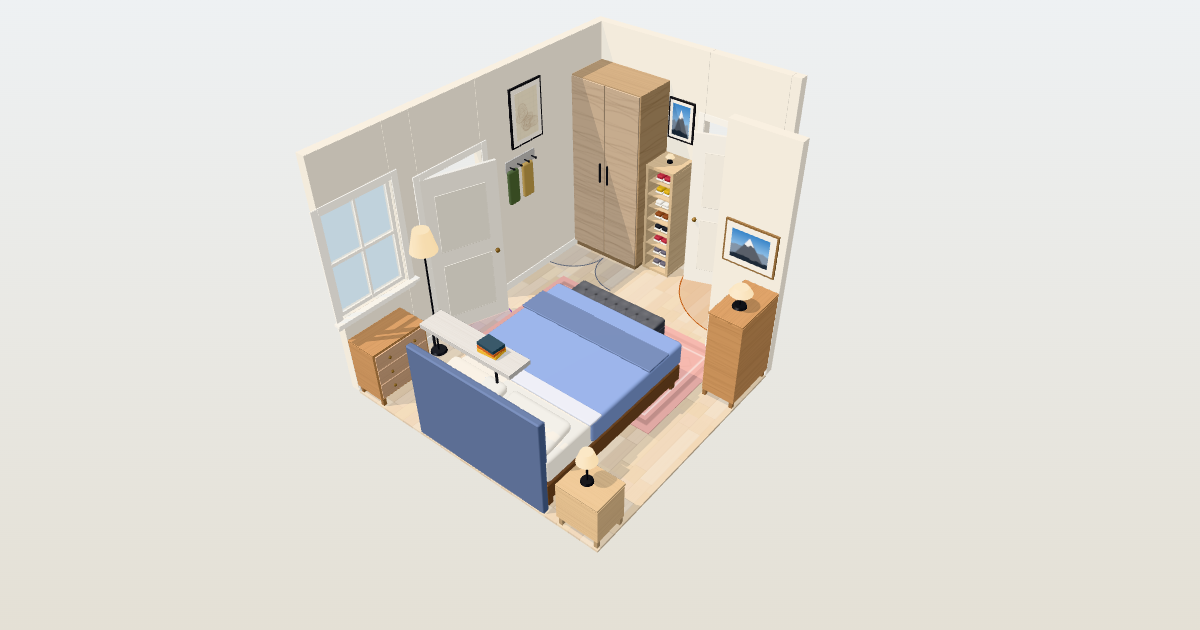
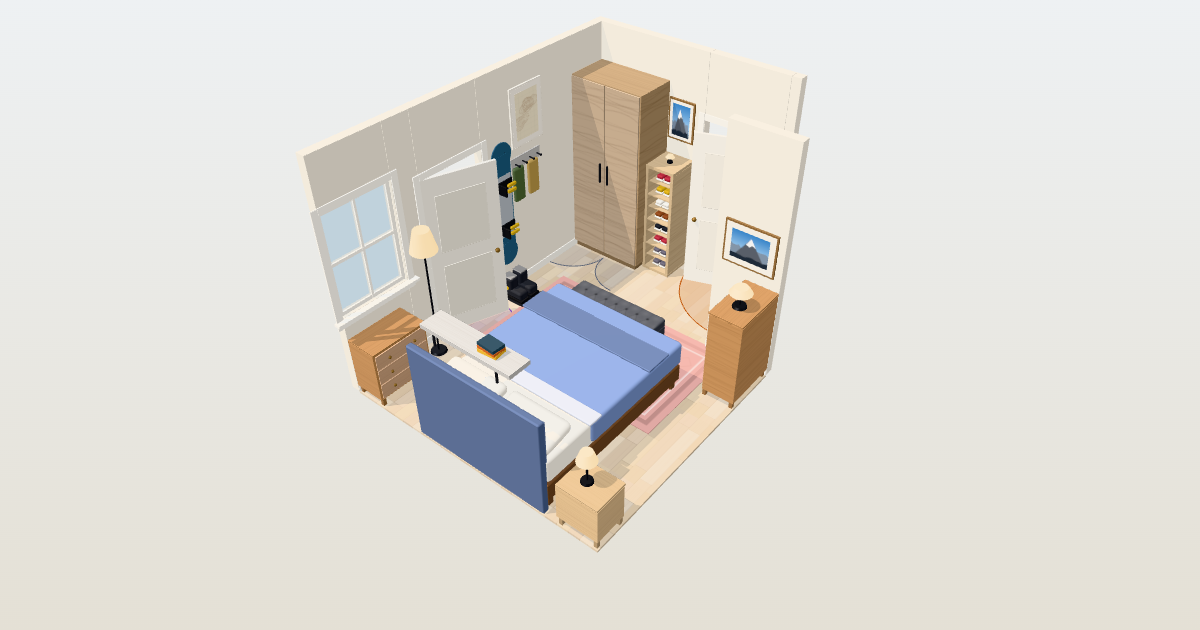
feat(gear): snowboard and boots in every layout, plus ladder shelf and bean bag
Every ready-made layout hangs the snowboard upright on a wall rack with
its bindings on and the boots on a tray beneath it. The corner layout's
floor lamp moves just north of the bed's foot corner to make room, and
the centred layout's hook rail moves 3 in north so the board clears the
closet door's trim. The furniture list also gains a leaning ladder shelf
and a bean bag; both views draw all four pieces. Previews retaken.

Changed region(s): [[0.4008, 0.2111, 0.4625, 0.4825], [0.555, 0.1508, 0.5858, 0.2413], [0.4317, 0.1206, 0.4625, 0.1508]]

diff --git a/site/core.js b/site/core.js
@@ -26,15 +26,17 @@ const PRESETS = [
   ["Armchair", 32, 34, 32, 0, "#7fae8f", true, "chair"], ["Rug", 96, 60, 0.5, 0, "#d9a5a0", false, "rug"],
   ["Wall shelf", 36, 8, 2, 60, "#a8a29e", true, "other"], ["Mirror", 24, 1, 60, 12, "#9fc5d8", true, "mirror"],
   ["Floor lamp", 12, 12, 64, 0, "#e3c66b", true, "lamp"], ["Table lamp", 10, 10, 18, 0, "#e3c66b", true, "lamp"], ["Plug-in sconce", 6, 4, 12, 46, "#e3c66b", true, "sconce"],
+  ["Ladder shelf", 24, 16, 72, 0, "#b08a62", true, "ladder"], ["Bean bag", 36, 34, 26, 0, "#8a6f5a", true, "beanbag"],
+  ["Snowboard wall rack", 12, 8, 63, 16, "#2f5d7c", true, "board"], ["Snowboard boots on a tray", 14, 15, 12, 0, "#2b2d33", true, "boots"],
   ["Framed art", 24, 1, 30, 50, "#efe4cc", true, "art"], ["Wall hanging", 30, 1, 45, 40, "#3f5f9e", true, "textile"], ["Peg rail with gear", 36, 2, 20, 50, "#c9b592", true, "pegs"],
   ["Custom box", 24, 24, 24, 0, "#bdbdbd", true, "other"]
 ];
 const KINDS = { bed: "Bed", bench: "Bench", ottoman: "Upholstered storage bench", dresser: "Dresser / drawers", wardrobe: "Wardrobe", rack: "Clothes rack", shoe: "Shoe storage",
-  nightstand: "Nightstand", shelf: "Shelving", chair: "Chair", rug: "Rug", mirror: "Mirror",
+  nightstand: "Nightstand", shelf: "Shelving", ladder: "Ladder shelf", beanbag: "Bean bag", board: "Snowboard on a wall rack", boots: "Snowboard boots", chair: "Chair", rug: "Rug", mirror: "Mirror",
   art: "Framed art", textile: "Wall hanging", pegs: "Peg rail with gear", lamp: "Lamp", sconce: "Wall sconce", plant: "Plant", other: "Plain box" };
 // Starting points that ship with the page.
 const KIND_COLOR = { bed: "#7c93c4", bench: "#a9825a", ottoman: "#4a4d55", dresser: "#b98b5e", wardrobe: "#a98f6f", rack: "#9aa3ad", shoe: "#c7b08e",
-  nightstand: "#d1b48c", shelf: "#9c7b55", chair: "#7fae8f", rug: "#d9a5a0", mirror: "#9fc5d8", lamp: "#e3c66b", sconce: "#e3c66b", plant: "#7fae8f",
+  nightstand: "#d1b48c", shelf: "#9c7b55", ladder: "#b08a62", beanbag: "#8a6f5a", board: "#2f5d7c", boots: "#2b2d33", chair: "#7fae8f", rug: "#d9a5a0", mirror: "#9fc5d8", lamp: "#e3c66b", sconce: "#e3c66b", plant: "#7fae8f",
   art: "#efe4cc", textile: "#3f5f9e", pegs: "#c9b592", other: "#bdbdbd" };
 // [name, kind, x, y, width, depth, height, off floor, headboard side]
 const pc = ([name, kind, x, y, w, d, h, z = 0, headSide = ""], i) => ({ id: kind + i, name, kind, x, y, w, d, h, z, color: KIND_COLOR[kind],
@@ -42,30 +44,30 @@ const pc = ([name, kind, x, y, w, d, h, z = 0, headSide = ""], i) => ({ id: kind
 const layout = (id, name, note, why, rows) => ({ id, name, note, why, items: rows.map(pc) });
 const BUILTIN = [
   layout("b3", "Bed facing the window", "wake to light",
-    "Bed turned with its head on the east wall and its foot toward the window, so the middle of the room is one open floor. A tall PAX wardrobe fills the north-west corner facing south, with a KALLAX shoe tower beside it and clear of the door swing. Its doors open onto clear floor: the MALM tall chest starts on the west wall just past them, and the open RIGGA rack runs along the in-push facing south, 30 in from the bed. A small nightstand stands at the head of the bed's open side; it leaves 14 in in front of the rack's east end. The bench sits across the foot of the bed. No ceiling light: a floor lamp stands in the window corner, a plug-in swing-arm sconce over the bed's head corner, just above the headboard, is the reading light, and your BÖJA, Mika and PELARBOJ lamps sit on the chest, the nightstand and the KALLAX. Tightest walkway is 27 in, between the bench and the window wall; the lamp sits at its dead end. The open rack is visible clutter.", [
+    "Bed turned with its head on the east wall and its foot toward the window, so the middle of the room is one open floor. A tall PAX wardrobe fills the north-west corner facing south, with a KALLAX shoe tower beside it and clear of the door swing. Its doors open onto clear floor: the MALM tall chest starts on the west wall just past them, and the open RIGGA rack runs along the in-push facing south, 30 in from the bed. A small nightstand stands at the head of the bed's open side; it leaves 14 in in front of the rack's east end. The bench sits across the foot of the bed. The snowboard hangs upright on the south wall at the window end of the bench, with its boots on a tray under it, so it sits in the dead end beside the floor lamp. No ceiling light: a floor lamp stands in the window corner, a plug-in swing-arm sconce over the bed's head corner, just above the headboard, is the reading light, and your BÖJA, Mika and PELARBOJ lamps sit on the chest, the nightstand and the KALLAX. Tightest walkway is 27 in, between the bench and the window wall; the lamp sits at its dead end. The open rack is visible clutter.", [
     ["Bed", "bed", 43, 98, 86, 66, 24, 0, "E"], [BENCH, "ottoman", 27, 117, 16, 46, 18],
     ["PAX wardrobe 39 3/8, tall", "wardrobe", 0, 0, 39.375, 22.875, 93.125], ["KALLAX 1x4 shoe tower", "shoe", 39.375, 0, 15.375, 16.5, 57.875],
     ["MALM 6-drawer tall chest", "dresser", 0, 44, 18.875, 31.5, 48.375],
     ["RIGGA clothes rack", "rack", 85.25, 48, 43.75, 20.125, 68.875], ["Small nightstand, 1 drawer", "nightstand", 117, 82, 12, 16, 24], ["Jute rug 5'3 x 7'7", "rug", 36, 48, 90.5, 63, 0.5],
-    ["Floor lamp", "lamp", 1, 151, 12, 12, 64], ["Plug-in swing-arm sconce", "sconce", 125, 99, 4, 6, 12, 46], ["Mika cactus lamp (yours)", "lamp", 119, 86, 8, 8, 15, 24],
+    ["Floor lamp", "lamp", 1, 151, 12, 12, 64], ["Snowboard wall rack", "board", 14, 156, 12, 8, 63, 16], ["Snowboard boots on a tray", "boots", 13, 149, 14, 15, 12], ["Plug-in swing-arm sconce", "sconce", 125, 99, 4, 6, 12, 46], ["Mika cactus lamp (yours)", "lamp", 119, 86, 8, 8, 15, 24],
     ["BÖJA table lamp (yours)", "lamp", 4.5, 55, 9.75, 9.75, 9.5, 48.375], ["PELARBOJ glow lamp (yours)", "lamp", 44.75, 6, 4.5, 4.5, 4, 57.875],
     ["Yosemite panorama", "art", 128, 107, 1, 48, 30, 54], ["Park print", "art", 55, 163, 18, 1, 24, 50], ["Park print", "art", 77, 163, 18, 1, 24, 50], ["Park print", "art", 99, 163, 18, 1, 24, 50], ["Adire wall hanging", "textile", 128, 68.25, 1, 29.5, 40, 54], ["Framed topo map", "art", 0, 47.75, 1, 24, 24, 56], ["Summit photos", "art", 100, 48, 24, 1, 20, 72]]),
   layout("a1", "Corner bed, maximum storage", "most storage",
-    "Bed in the south-east corner. A tall PAX wardrobe in the north-west corner takes hanging clothes with the KALLAX shoe tower beside it, and a 63 in MALM dresser sits under the window and doubles as the nightstand. Bench stays at the foot. No ceiling light: a floor lamp stands in the corner north of the bed, a plug-in swing-arm sconce on the south wall, just above the headboard's open corner, is the reading light, and your BÖJA and Mika lamps sit on the dresser with the PELARBOJ on the KALLAX. Main walkway is 51 in; the tightest spot is 24 in in front of the wardrobe doors. The bed is reachable from one side only and the north-west corner is furniture-heavy.", [
+    "Bed in the south-east corner. A tall PAX wardrobe in the north-west corner takes hanging clothes with the KALLAX shoe tower beside it, and a 63 in MALM dresser sits under the window and doubles as the nightstand. Bench stays at the foot. The snowboard hangs upright on the east wall in the corner by the in-push, its boots on a tray under it. No ceiling light: a floor lamp stands just north of the bed's foot corner, a plug-in swing-arm sconce on the south wall, just above the headboard's open corner, is the reading light, and your BÖJA and Mika lamps sit on the dresser with the PELARBOJ on the KALLAX. Main walkway is 51 in; the tightest spot is 24 in in front of the wardrobe doors. The bed is reachable from one side only and the north-west corner is furniture-heavy.", [
     ["Bed", "bed", 63, 78, 66, 86, 24, 0, "S"], [BENCH, "ottoman", 64, 62, 46, 16, 18],
     ["PAX wardrobe 39 3/8, tall", "wardrobe", 0, 0, 39.375, 22.875, 93.125], ["MALM 6-drawer dresser", "dresser", 0, 145.125, 63, 18.875, 30.75],
     ["KALLAX 1x4 shoe tower", "shoe", 39.375, 0, 15.375, 16.5, 57.875], ["Hook rail", "other", 104, 48, 18.875, 3.5, 5.5, 62],
     ["Runner rug 30 x 84", "rug", 28, 55, 30, 84, 0.5],
-    ["Floor lamp", "lamp", 116, 53, 12, 12, 64], ["Plug-in swing-arm sconce", "sconce", 63, 160, 6, 4, 12, 46], ["BÖJA table lamp (yours)", "lamp", 51, 150, 9.75, 9.75, 9.5, 30.75],
+    ["Floor lamp", "lamp", 117, 65, 12, 12, 64], ["Snowboard wall rack", "board", 121, 52, 8, 12, 63, 16], ["Snowboard boots on a tray", "boots", 115, 51, 14, 14, 12], ["Plug-in swing-arm sconce", "sconce", 63, 160, 6, 4, 12, 46], ["BÖJA table lamp (yours)", "lamp", 51, 150, 9.75, 9.75, 9.5, 30.75],
     ["Mika cactus lamp (yours)", "lamp", 4, 150, 8, 8, 15, 30.75], ["PELARBOJ glow lamp (yours)", "lamp", 44.75, 6, 4.5, 4.5, 4, 57.875],
     ["Yosemite panorama", "art", 72, 163, 48, 1, 32, 54], ["Trip photo grid", "art", 8, 163, 48, 1, 28, 38], ["Adire wall hanging", "textile", 128, 90, 1, 30, 40, 48], ["Framed topo map", "art", 0, 53, 1, 24, 28, 44], ["Summit photo", "art", 40, 0, 14, 1, 20, 66]]),
   layout("a3", "Centred bed, both sides open", "two-sided bed",
-    "Bed stays almost where it is, so you can get in from either side: 38 in on the west (22 in beside the low chest under the window), 25 in on the east. Tall PAX in the north-west corner with the KALLAX shoe tower beside it, a narrow KULLEN 5-drawer chest south of the in-push, a low KULLEN 3-drawer chest under the window, a nightstand and a shelf over the headboard. No ceiling light: a pair of plug-in swing-arm sconces sit just above the headboard's two corners, a floor lamp stands on the west wall between the closet door and the window, and your BÖJA, Mika and PELARBOJ lamps sit on the tall chest, the nightstand and the KALLAX. Bench keeps its place at the foot. Tightest walkway is 22 in.", [
+    "Bed stays almost where it is, so you can get in from either side: 38 in on the west (22 in beside the low chest under the window), 25 in on the east. Tall PAX in the north-west corner with the KALLAX shoe tower beside it, a narrow KULLEN 5-drawer chest south of the in-push, a low KULLEN 3-drawer chest under the window, a nightstand and a shelf over the headboard. The snowboard hangs upright on the west wall just north of the closet door, its boots on a tray under it. No ceiling light: a pair of plug-in swing-arm sconces sit just above the headboard's two corners, a floor lamp stands on the west wall between the closet door and the window, and your BÖJA, Mika and PELARBOJ lamps sit on the tall chest, the nightstand and the KALLAX. Bench keeps its place at the foot. Tightest walkway is 22 in.", [
     ["Bed", "bed", 38, 78, 66, 86, 24, 0, "S"], [BENCH, "ottoman", 39, 62, 46, 16, 18],
     ["PAX wardrobe 39 3/8, tall", "wardrobe", 0, 0, 39.375, 22.875, 93.125], ["KALLAX 1x4 shoe tower", "shoe", 39.375, 0, 15.375, 16.5, 57.875],
     ["KULLEN 5-drawer chest", "dresser", 113.25, 48, 15.75, 27.5, 44.125], ["KULLEN 3-drawer chest", "dresser", 0, 136.5, 15.75, 27.5, 28.375], ["MALM 2-drawer nightstand", "nightstand", 110.125, 148.25, 18.875, 15.75, 21.625],
-    ["Wall shelf over bed", "other", 49, 153.75, 43.25, 10.25, 2, 60], ["Hook rail", "other", 0, 50, 3.5, 18.875, 5.5, 62],
-    ["Rug 60 x 96", "rug", 14, 48, 96, 60, 0.5],
+    ["Wall shelf over bed", "other", 49, 153.75, 43.25, 10.25, 2, 60], ["Hook rail", "other", 0, 46.5, 3.5, 18.875, 5.5, 62],
+    ["Rug 60 x 96", "rug", 14, 48, 96, 60, 0.5], ["Snowboard wall rack", "board", 0, 66, 8, 12, 63, 16], ["Snowboard boots on a tray", "boots", 0, 65, 15, 14, 12],
     ["Floor lamp", "lamp", 1, 119, 12, 12, 64], ["Plug-in swing-arm sconce", "sconce", 38, 160, 6, 4, 12, 46], ["Plug-in swing-arm sconce", "sconce", 98, 160, 6, 4, 12, 46],
     ["BÖJA table lamp (yours)", "lamp", 116, 60, 9.75, 9.75, 9.5, 44.125], ["Mika cactus lamp (yours)", "lamp", 114, 152, 8, 8, 15, 21.625], ["PELARBOJ glow lamp (yours)", "lamp", 44.75, 6, 4.5, 4.5, 4, 57.875],
     ["Park print", "art", 52, 163, 18, 1, 22, 63], ["Park print", "art", 73, 163, 18, 1, 22, 63], ["Adire wall hanging", "textile", 128, 85, 1, 30, 45, 40], ["Framed topo map", "art", 0, 44, 1, 20, 28, 72], ["Summit photos", "art", 102, 48, 24, 1, 20, 50], ["Summit photo", "art", 40, 0, 14, 1, 20, 66]])
@@ -376,7 +378,7 @@ function tier(gap) { return gap <= state.room.flush ? "flush" : gap <= state.roo
 function kindOf(it) {
   if (it.kind) return it.kind;
   const nm = it.name.toLowerCase();
-  const table = [["nightstand", /night|bedside/], ["bed", /\bbed\b/], ["ottoman", /ottoman|storage bench|upholstered/], ["bench", /bench/], ["shoe", /shoe/], ["wardrobe", /wardrobe|armoire|pax/],
+  const table = [["board", /snowboard(?! boot)/], ["boots", /boot/], ["ladder", /ladder/], ["beanbag", /bean ?bag/], ["nightstand", /night|bedside/], ["bed", /\bbed\b/], ["ottoman", /ottoman|storage bench|upholstered/], ["bench", /bench/], ["shoe", /shoe/], ["wardrobe", /wardrobe|armoire|pax/],
     ["rack", /rack|rail/], ["dresser", /dresser|drawer|chest/], ["shelf", /shel|book/], ["chair", /chair|sofa/], ["rug", /rug|carpet/],
     ["mirror", /mirror/], ["sconce", /sconce/], ["lamp", /lamp/], ["plant", /plant/],
     ["textile", /hanging|tapestry|textile/], ["pegs", /peg/], ["art", /art|print|photo|poster|map|frame|panorama/]];

diff --git a/site/index.html b/site/index.html
@@ -580,6 +580,67 @@ const MODELS = {
       x += bw + 0.08;
     }
   },
+  // Leans on the wall: two rails from the floor out front to the wall up top, shelves narrowing as they rise.
+  ladder(g, { a, dp, h, c, r }) {
+    const m = wood(c), run = dp - 2, tilt = Math.atan2(run, h), back = -dp / 2 + 0.6, frontAt = y => dp / 2 - 1 - run * (y / h);
+    for (const sx of [-1, 1]) {
+      const len = Math.hypot(h, run), rail = bxm(g, 1.4, len, 1.6, 0, 0, 0, m);
+      rail.geometry.translate(0, len / 2, 0); // pivot at the rail's foot
+      rail.position.set(sx * (a / 2 - 0.7), 0, dp / 2 - 1.8);
+      rail.rotation.x = -tilt;
+    }
+    const shelves = Math.max(2, Math.round(h / 15));
+    for (let i = 0; i < shelves; i++) {
+      const y = 6 + i * (h - 10) / (shelves - 0.5), sd = Math.max(frontAt(y) - back, 3);
+      bxm(g, a - 2.8, 0.8, sd, 0, y, back + sd / 2, m, 0.15);
+      if (r() < 0.5) cyl(g, 2.2, 1.7, 4, -a * 0.2, y + 2.8, back + sd / 2, M("#c9734b", 0.9), "y", 14);
+      for (let x = a * 0.02; x < a / 2 - 3 && sd > 5; x += 1.4) bxm(g, 1.2, 5 + r() * 3, Math.min(sd - 1, 6), x, y + 0.8, back + sd / 2, M(pick(r, BOOKS), 0.8));
+    }
+  },
+  // A squashed sack of beans with a higher lump at the back where you lean.
+  beanbag(g, { a, dp, h, c }) {
+    const lump = (sx, sy, sz, x, y, z, m) => {
+      const mesh = new THREE.Mesh(new THREE.SphereGeometry(1, 32, 20), m);
+      mesh.scale.set(sx, sy, sz); mesh.position.set(x, y, z); g.add(mesh);
+    };
+    lump(a / 2, h * 0.36, dp / 2, 0, h * 0.36, 0, M(c, 1));
+    lump(a * 0.42, h * 0.42, dp * 0.26, 0, h * 0.58, -dp * 0.2, M(c, 1));
+    lump(a * 0.3, h * 0.12, dp * 0.3, 0, h * 0.66, dp * 0.08, M(shade(c, -0.12), 1));
+  },
+  // Snowboard on a wall rack with its bindings on: upright when taller than wide, lying flat otherwise.
+  board(g, { a, dp, h, c }) {
+    const upright = h >= a, len = upright ? h : a, wid = Math.min(upright ? a : h, 12.5), waist = wid * 0.84, nose = wid / 2;
+    const b = new THREE.Group(), deck = M(c, 0.45), zb = -dp / 2 + 1.6;
+    for (const end of [-1, 1]) bxm(b, wid * 0.5, 1.6, 1.4, 0, end * (len / 2 - 5) - 0.8, -dp / 2 + 0.7, DARK_METAL, 0.2); // wall brackets
+    bxm(b, waist, len - 2 * nose, 0.45, 0, -len / 2 + nose, zb, deck, 0.1);
+    for (const end of [-1, 1]) cyl(b, nose, nose, 0.45, 0, end * (len / 2 - nose), zb, deck, "z", 28);
+    bxm(b, waist * 0.9, len * 0.5, 0.06, 0, -len * 0.25, zb + 0.26, M(shade(c, 0.45), 0.5)); // top-sheet stripe
+    bxm(b, waist, len - 2 * nose, 0.12, 0, -len / 2 + nose, zb - 0.28, M("#1b1c20", 0.35));
+    for (const s of [-1, 1]) { // bindings, 22 in apart
+      const y = s * 11, binding = M("#16171a", 0.6), strap = M("#c9a227", 0.7);
+      bxm(b, waist * 0.92, 4.6, 0.9, 0, y - 2.3, zb + 0.7, binding, 0.2);
+      bxm(b, 0.9, 5, 5.5, -waist / 2 + 1, y - 2.5, zb + 3.4, binding, 0.3);
+      for (const k of [-1.3, 1.6]) bxm(b, waist * 0.5, 1.5, 1.4, waist * 0.08, y + k - 0.75, zb + 4.4, strap, 0.4);
+    }
+    b.position.set(0, h / 2, 0);
+    if (!upright) b.rotation.z = Math.PI / 2;
+    g.add(b);
+  },
+  // A pair of snowboard boots, toes out, on a rubber boot tray.
+  boots(g, { a, dp, h, c }) {
+    const tray = M("#1d1f24", 0.9), shell = M(c, 0.7), liner = M(shade(c, 0.25), 0.9), dial = M("#c9a227", 0.5);
+    bxm(g, a, 0.6, dp, 0, 0, 0, tray, 0.2);
+    for (const side of [-1, 1]) bxm(g, a, 1.2, 0.5, 0, 0, side * (dp / 2 - 0.25), tray);
+    const bw = Math.min(a * 0.42, 5.5), len = Math.min(dp - 1.4, 13);
+    for (const sx of [-1, 1]) {
+      const x = sx * a * 0.24;
+      bxm(g, bw + 0.3, 1.4, len, x, 0.6, 0, M("#121316", 0.8), 0.4);
+      bxm(g, bw, Math.min(4.5, h * 0.38), len * 0.92, x, 1.8, 0.2, shell, 1.4);
+      bxm(g, bw * 0.96, h - 2.4, len * 0.48, x, 2.4, -len * 0.22, shell, 1.5);
+      bxm(g, bw * 0.8, 1, len * 0.42, x, h - 0.6, -len * 0.22, liner, 0.4);
+      cyl(g, 0.9, 0.9, 0.6, x + sx * (bw / 2 + 0.2), h * 0.55, -len * 0.18, dial, "x", 14);
+    }
+  },
   chair(g, { a, dp, h, c }) {
     const fabric = M(c, 1), legH = Math.min(4, h * 0.15), seat = Math.max(h * 0.32, legH + 4);
     for (const sx of [-1, 1]) for (const sz of [-1, 1]) cyl(g, 0.9, 0.6, legH, sx * (a / 2 - 3), legH / 2, sz * (dp / 2 - 3), wood("#5a3e2b"));

diff --git a/site/plan.html b/site/plan.html
@@ -122,6 +122,10 @@ function planDeco(it) {
     else if (k === "plant" || k === "lamp") g += `<circle class="deco-fill" cx="${x + w / 2}" cy="${y + d / 2}" r="${Math.min(w, d) / 2 - 1}"/>`;
     else if (k === "sconce") g += `<circle class="deco-fill" cx="${x + w / 2}" cy="${y + d / 2}" r="${Math.max(w, d) / 2}"/>`;
     else if (k === "dresser" || k === "nightstand" || k === "shoe" || k === "shelf") g += box(x + 1.2, y + 1.2, w - 2.4, d - 2.4);
+    else if (k === "ladder") for (let a = 2; a < (longX ? d : w) - 1; a += 3.5) g += longX ? seg(x + 1, y + a, x + w - 1, y + a) : seg(x + a, y + 1, x + a, y + d - 1);
+    else if (k === "beanbag") g += `<ellipse class="deco-fill" cx="${x + w / 2}" cy="${y + d / 2}" rx="${w / 2 - 1}" ry="${d / 2 - 1}"/>`;
+    else if (k === "board") g += box(x + 0.8, y + 0.8, w - 1.6, d - 1.6, "deco-fill", 1.5);
+    else if (k === "boots") g += box(x + 1, y + 1, w / 2 - 1.5, d - 2, "deco-dark", 2) + box(x + w / 2 + 0.5, y + 1, w / 2 - 1.5, d - 2, "deco-dark", 2);
   }
   return `<g pointer-events="none">${g}</g>`;
 }
@@ -169,7 +173,17 @@ function elevDeco(p, x, y, w, h) {
   } else if (k === "pegs" && w > 6) {
     g += box(x, y, w, 2.2, "deco-dark");
     for (let a = 3, i = 0; a < w - 2; a += 4.5, i++) g += `<circle class="deco-dark" cx="${x + a}" cy="${y + 1.1}" r="0.7"/>` + (i % 2 ? `<ellipse class="deco" cx="${x + a}" cy="${y + 2.2 + h * 0.3}" rx="1.3" ry="${h * 0.3}"/>` : seg(x + a, y + 2.2, x + a, y + h * 0.9) + `<circle class="deco" cx="${x + a}" cy="${y + h * 0.9}" r="1.2"/>`);
-  } else if (k === "mirror" && w > 6) g += box(x + 1.5, y + 1.5, w - 3, h - 3, "deco-fill") + seg(x + w * 0.25, y + h * 0.3, x + w * 0.6, y + h * 0.1) + seg(x + w * 0.4, y + h * 0.45, x + w * 0.75, y + h * 0.25);
+  } else if (k === "ladder" && h > 20) {
+    g += seg(x + 1, y, x + 1, y + h) + seg(x + w - 1, y, x + w - 1, y + h);
+    for (let a = 6; a < h - 3; a += 15) g += seg(x + 1, y + h - a, x + w - 1, y + h - a);
+  } else if (k === "beanbag") g += `<ellipse class="deco-fill" cx="${x + w / 2}" cy="${y + h * 0.62}" rx="${w / 2 - 1}" ry="${h * 0.36}"/><ellipse class="deco" cx="${x + w / 2}" cy="${y + h * 0.4}" rx="${w * 0.4}" ry="${h * 0.38}"/>`;
+  else if (k === "board") {
+    // the board's outline with a bar for each binding, along its length
+    const up = h >= w;
+    g += box(x + 0.5, y + 0.5, w - 1, h - 1, "deco-fill", Math.min(w, h) / 2 - 0.5);
+    for (const s of [-11, 11]) g += up ? box(x + 1.5, y + h / 2 + s - 2.3, w - 3, 4.6, "deco-dark", 1) : box(x + w / 2 + s - 2.3, y + 1.5, 4.6, h - 3, "deco-dark", 1);
+  } else if (k === "boots" && w > 6) g += box(x + 1, y + 1, w / 2 - 1.5, h - 1, "deco-dark", 1.5) + box(x + w / 2 + 0.5, y + 1, w / 2 - 1.5, h - 1, "deco-dark", 1.5) + seg(x, y + h - 0.6, x + w, y + h - 0.6);
+  else if (k === "mirror" && w > 6) g += box(x + 1.5, y + 1.5, w - 3, h - 3, "deco-fill") + seg(x + w * 0.25, y + h * 0.3, x + w * 0.6, y + h * 0.1) + seg(x + w * 0.4, y + h * 0.45, x + w * 0.75, y + h * 0.25);
   return `<g pointer-events="none">${g}</g>`;
 }
 // A door or window cut into the wall line on the plan.

diff --git a/README.md b/README.md
@@ -12,6 +12,9 @@ A planner for Femi's San Francisco bedroom, built from his own measurements. Inc
   turns off daylight and the ceiling fixture and lights each lamp and sconce. Its bulb control sets
   every lamp to a white temperature (2500 to 6500K, the Tapo L535E's range) or any colour, and
   remembers the choice in that browser.
+- **Gear:** every ready-made layout hangs Femi's snowboard upright on a wall rack, bindings on,
+  with his boots on a tray under it. A board's model lies flat instead when it is wider than tall.
+  The furniture list also offers a leaning ladder shelf and a bean bag.
 - **On a phone** the 3D page is a viewer: the layouts are tabs, there is no editing panel, a drag
   turns the room and a tap names a piece. A screen at most 760 px wide or 500 px tall counts
   as a phone. Editing needs a wider screen.
